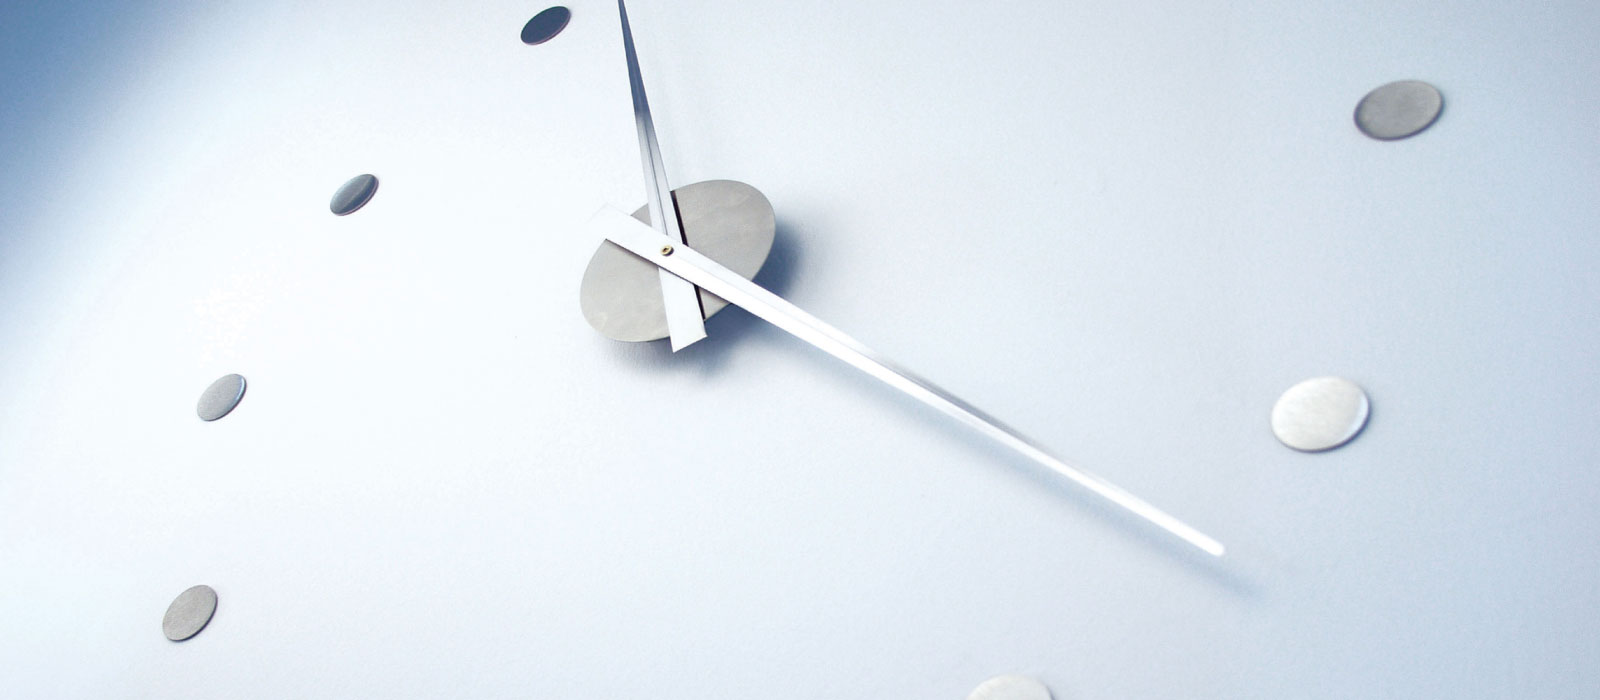
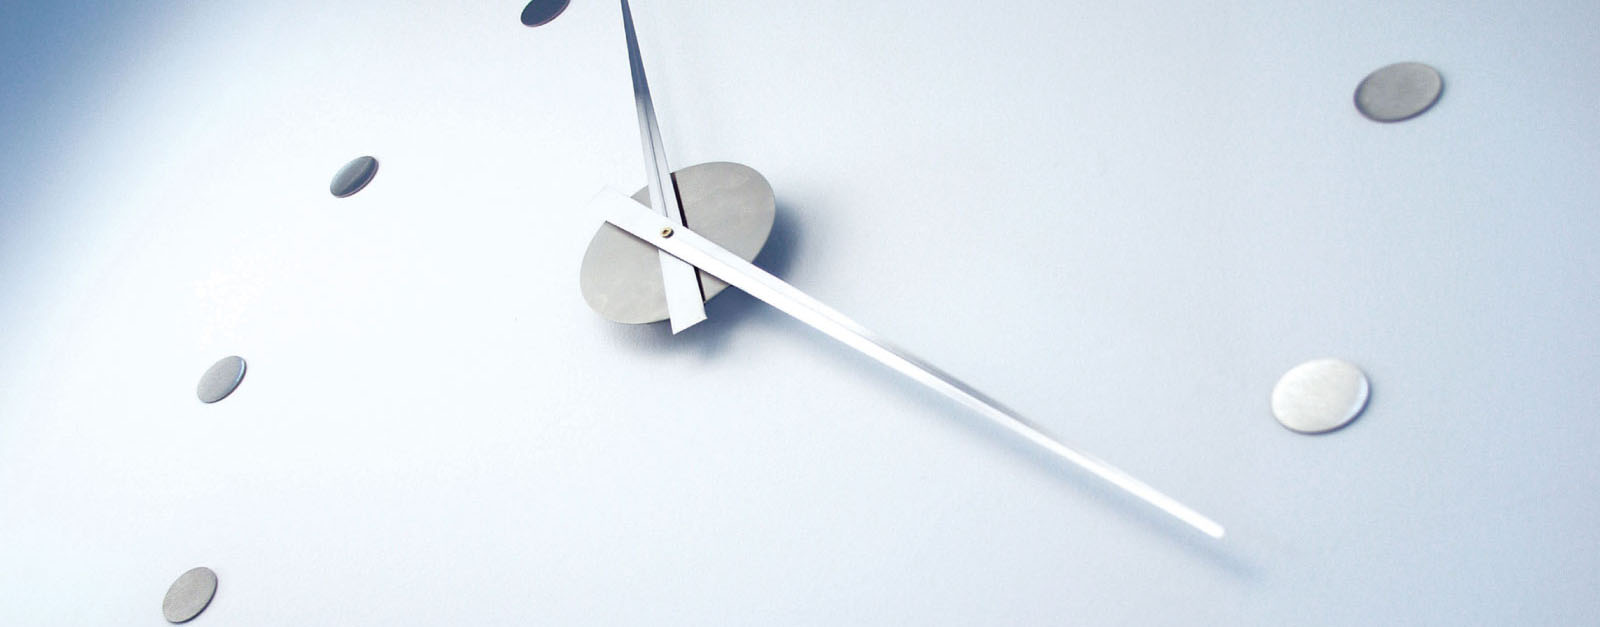
main img in home page updated

diff --git a/TICTOC-Website/Main.html b/TICTOC-Website/Main.html
@@ -59,7 +59,7 @@
 
 		<div>
 
-			<img alt="home" src="img/about-us-banner-3.jpg" width="1400" height="800">	
+			<img alt="home" src="img/about-us-banner-5.jpg" width="1600" height="700">	
 
 		</div>
 
@@ -76,7 +76,7 @@
 
 		<div class="grid">
 
-		<h2>Latest News</h2>
+		<h2 class="underline-wide">Latest News</h2>
 
 		 <div class="grid-col-2of10">
 		    <article>

diff --git a/TICTOC-Website/css/style.css b/TICTOC-Website/css/style.css
@@ -30,6 +30,12 @@ body {
 
 }
 
+.underline-wide{
+	border-bottom: 0.1em solid gray ;
+	width:100%;
+
+}
+
 .text-border{
 	border-bottom: 0.1em solid gray ;
 }
